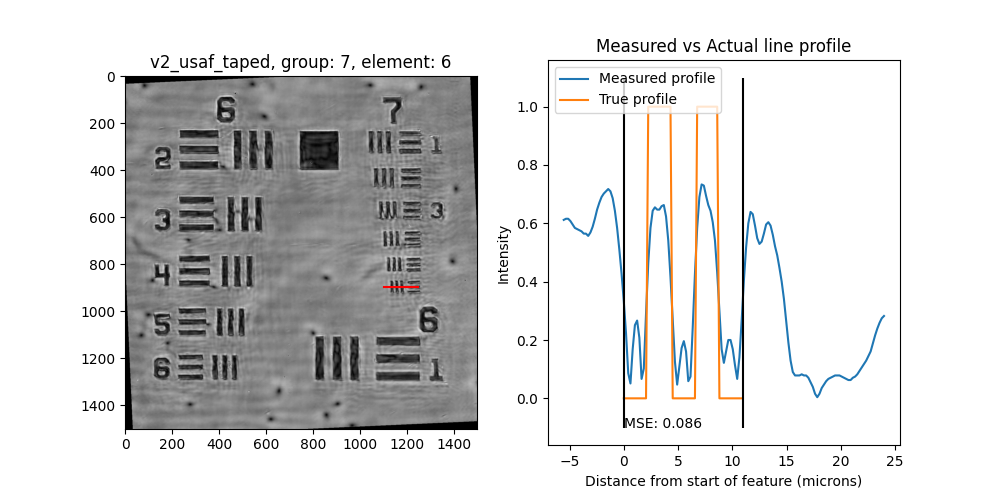
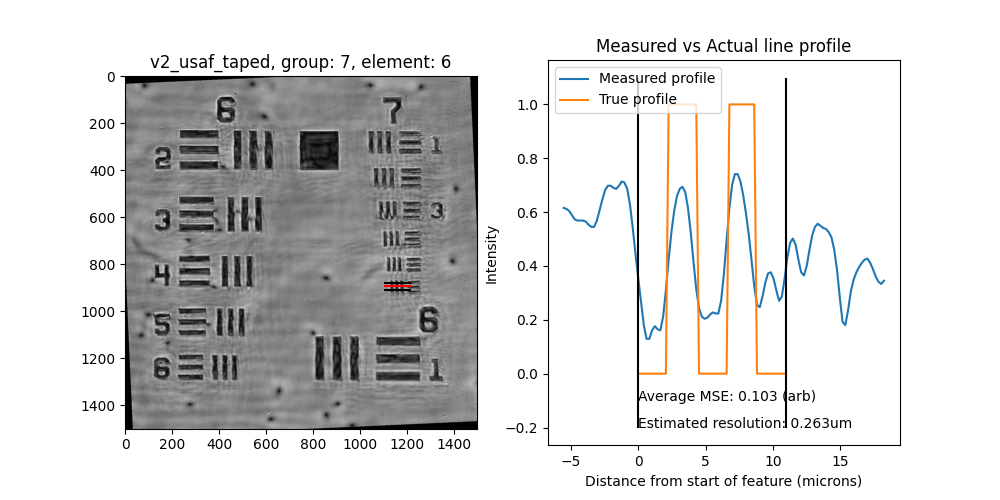
.

diff --git a/quality_analysis.py b/quality_analysis.py
@@ -4,8 +4,8 @@ import numpy as np
 import fpm_functions as fpm
 from skimage.measure import profile_line
 from skimage.filters import threshold_otsu
-from scipy.fft import fft, ifft
 from scipy.optimize import curve_fit
+from skimage.restoration import richardson_lucy
 import os
 
 #### This script is for checking the reconstruction quality of USAF target high resolution image ####
@@ -57,7 +57,7 @@ def pixel_slice_selection(image,group,element,snap=True):
     return profile,coords
 
 # Find the error between the user selected profile and the theoretical feature profile for a given alignment offset
-def get_error(profile,pixel_size,line_width,offset):
+def get_error(profile,pixel_size,line_width,offset,get_res=False):
     
     "profile: User selected line slice constaining intensity at each pixel index"
     "pixel_size: Size of pixel in microns in high resolution image"
@@ -103,45 +103,45 @@ def get_error(profile,pixel_size,line_width,offset):
         return
     error /= num_points # To get mean
     
-    # # Find a score for the gradient of the profile about the feature lines (at each of the six transitions)
-    # gradients = []
-    # edges = [line_width*i for i in range(6)] # Distances where transition occurs
-    # indices = [np.argmin(np.abs(distances - edge)) for edge in edges] # Indices where the edge is found
-    # for i in indices:
-    #     # 1st order central derivative of pixel intensity wrt distance
-    #     for dx in range(1,4): # Use some different widths for calculating derivative
-    #         gradients.append(abs((profile[i+dx] - profile[i-dx])/(distances[i+dx] - distances[i-dx])))
-    
-    # gradient_score = np.mean(gradients) # Return average
-    
     ## Estimate resolution
+    res = 0
+    psf = 0
+    if get_res:
+        edges = [line_width*i for i in range(6)] # Distances where transition occurs
+        indices = [np.argmin(np.abs(distances - edge)) for edge in edges] # Indices where the edge is found
+        
+        # Pick an edge and deconvolve the region around it
+        i = indices[4] # Index where an edge is (2 or 4 work)
+        # Consider a fixed distance either side of the edge
+        dist = 1.5 # Distance blurred region extends either side of an edge is about 1-2um for most images
+        # dist should be as small as possible while not cropping the psf, so that psf is flat either side of central spike
+        # If dist is too big then noise is introduced around the edge and the psf becomes far too wide
+        r = round(dist/pixel_size) # Number of pixels either side of edge for blurred region
+        cropped_profile_measured = profile[i-r:i+r]
+        cropped_profile_true = theoretical_profile[i-r:i+r]
+        
+        # Find point spread function (psf)
+        # theoretical profile * psf = measured profile, so we can deconvolve in Fourier domain
+        # psf = ifft(fft(cropped_profile_measured)/(fft(cropped_profile_true)+1e-8))
+        # psf = np.abs(psf) # Don't care about phase
+        psf = richardson_lucy(np.array(cropped_profile_measured), np.array(cropped_profile_true), num_iter=30)
+        psf = psf[int(len(psf)*0.1):int(len(psf)*0.85)] # Crop again to remove boundary artefacts
+        
+        def gaussian(x, a, x0, sigma):
+            return a * np.exp(-((x - x0) ** 2) / (2 * sigma ** 2))
+        
+        # Measure the Full Width at Half Maximum (FWHM) of the PSF
+        # Fit Gaussian to the PSF
+        x = np.arange(len(psf)) # x series data (just pixel indices)
+        y = psf # y series data             
+        mean = np.argmax(y)
+        sigma = np.sqrt(sum(y * (x - mean)**2) / sum(y))
+        popt, _ = curve_fit(gaussian, x, y, p0=[1, mean, sigma])
+        sigma = abs(popt[2])
+        res = 2.355 * sigma  # Convert Gaussian sigma to FWHM (resolution)
+        res *= pixel_size # Convert from number of pixels to physical distance (um)
     
-    # Get profiles within region 
-    cropped_profile_measured = []
-    cropped_profile_true = []
-    for i in range(len(profile)):
-        if distances[i] >= 0 and distances[i] < 5*line_width: # Within region
-            cropped_profile_measured.append(profile[i])
-            cropped_profile_true.append(theoretical_profile[i])
-    
-    # theoretical profile * psf = measured profile, so we can deconvolve in Fourier domain
-    psf = ifft(fft(cropped_profile_measured)/(fft(cropped_profile_true)+1e-8))
-    psf = np.abs(psf) # Don't care about phase
-    psf = psf - np.min(psf)
-    psf /= np.max(psf) # Nomralise
-    
-    # def gaussian(x, a, x0, sigma):
-    #     """ Gaussian function for fitting the PSF """
-    #     return a * np.exp(-((x - x0) ** 2) / (2 * sigma ** 2))
-    
-    # """ Measure the Full Width at Half Maximum (FWHM) of the PSF """
-    # # Fit Gaussian to the PSF
-    # x = np.linspace(0, len(psf), len(psf))
-    # popt, _ = curve_fit(gaussian, x, psf, p0=[1, np.argmax(psf), 1])
-    # sigma = abs(popt[2])
-    # fwhm = 2.355 * sigma  # Convert Gaussian sigma to FWHM
-    
-    return error, psf, distances, theoretical_profile
+    return error, res, psf, distances, theoretical_profile
 
 # Find the approx index of the first black line pixel in the feature
 def get_approx_offset(profile):
@@ -159,8 +159,8 @@ def get_approx_offset(profile):
             return i
 
 # Select feature to analyse, [group, element]. [7,6] is smallest, [6,1] is biggest
-feature = [6,1] 
-# feature = [7,6]
+# feature = [6,1] 
+feature = [7,6]
 
 # Image name is name of folder where magnitude.png is
 # Pixel size in reconstructed image is original pixel size (in microns) divided by upsampling ratio
@@ -168,11 +168,7 @@ feature = [6,1]
 # then uncomment the first print statement below)
 # Angle is rotation degrees acw
 
-# image_name = 'v3_usaf_47' # My best result
-# pixel_size = 0.23
-# angle = -0.7
-
-image_name = 'v3_usaf_best'
+image_name = 'v3_usaf_best' # Best result
 pixel_size = 0.23
 angle = -1
 
@@ -216,7 +212,7 @@ profile /= 255 # Range should be 0-1 (but don't normalise with image informatio
 vertical = True if coords["end"][1] == coords["start"][1] else False # Flag for vertical/horizontal line
 
 # Calculate pixel size by selecting precisely start and end of feature
-print(f'Number of pixels: {len(profile)}, five line width: {round(5*line_width,3)}um, pixel size: {round(5*line_width/len(profile),3)}um')
+# print(f'Number of pixels: {len(profile)}, five line width: {round(5*line_width,3)}um, pixel size: {round(5*line_width/len(profile),3)}um')
 
 ### Optimise offset ###
 
@@ -229,7 +225,7 @@ offsets = np.linspace(approx_offset-search_range,approx_offset+search_range,sear
 errors = np.zeros(len(offsets)) # To store errors at each adjusted offset
 
 for idx, offset in enumerate(offsets):
-    errors[idx],_,_,_ = get_error(profile,pixel_size,line_width,int(offset))
+    errors[idx],_,_,_,_ = get_error(profile,pixel_size,line_width,int(offset))
 
 optimal_offset = offsets[np.argmin(errors)]
 
@@ -238,12 +234,12 @@ optimal_offset = offsets[np.argmin(errors)]
 # ax.plot(offsets,errors)
 # ax.vlines([approx_offset,optimal_offset],0,1,['black','red'])   
 
-# Find the profile and distances using the optimal offset (used for plotting)
-error,psf,distances,theoretical_profile = get_error(profile,pixel_size,line_width,optimal_offset)
+# Get the theoretical profile and distances using the optimal offset (used for plotting)
+error,res,psf,distances,theoretical_profile = get_error(profile,pixel_size,line_width,optimal_offset,get_res=True)
 
 plt.plot(psf)
 plt.show()
-
+print(res)
 
 ### Repeat either side of the profile to average across the line section ###
 lines_per_side = 3 # Number of lines per side of central line
@@ -273,21 +269,21 @@ for i in range(1, 1+lines_per_side):
     profiles.append(profile_line(image, start_neg, end_neg)/255)
 
 profile_errors = [error]
-profile_gradients = [gradient] # Score to measure sharpness of transition
+profile_resolutions = [res]
 
 for profile in profiles:
-    error,gradient,_,_ = get_error(profile,pixel_size,line_width,optimal_offset)
+    error,res,_,_,_ = get_error(profile,pixel_size,line_width,optimal_offset,get_res=True)
     profile_errors.append(error)
-    profile_gradients.append(gradient)
+    profile_resolutions.append(res)
 
 # Mean across all segments
 mean_error = np.mean(profile_errors) 
-mean_gradient = np.mean(profile_gradients)
+mean_res = np.mean(profile_resolutions)
 
 # Plot results
 fig, axes = plt.subplots(1, 2, figsize=(10, 5))
-
 axes[0].imshow(image,cmap='gray')
+
 # Just draw the edge and central lines
 if vertical:
     x_starts = [coords["start"][1] + lines_per_side*i*pixel_offset for i in range(-1,2)]
@@ -303,8 +299,8 @@ axes[1].set_title('Measured vs Actual line profile')
 axes[1].vlines((0,5*line_width),-0.2,1.1,colors='black') # Indicate where features start and end
 plt.xlabel('Distance from start of feature (microns)')
 plt.ylabel('Intensity')
-axes[1].annotate(f'Average MSE: {mean_error:.3f}',[0,-0.1])
-axes[1].annotate(f'Gradient score: {mean_gradient:.3f}',[0,-0.2])
+axes[1].annotate(f'Average MSE: {mean_error:.3f} (arb)',[0,-0.1])
+axes[1].annotate(f'Estimated resolution: {mean_res:.3f}um',[0,-0.2])
 axes[1].legend(loc='upper left')
 
 # Save
